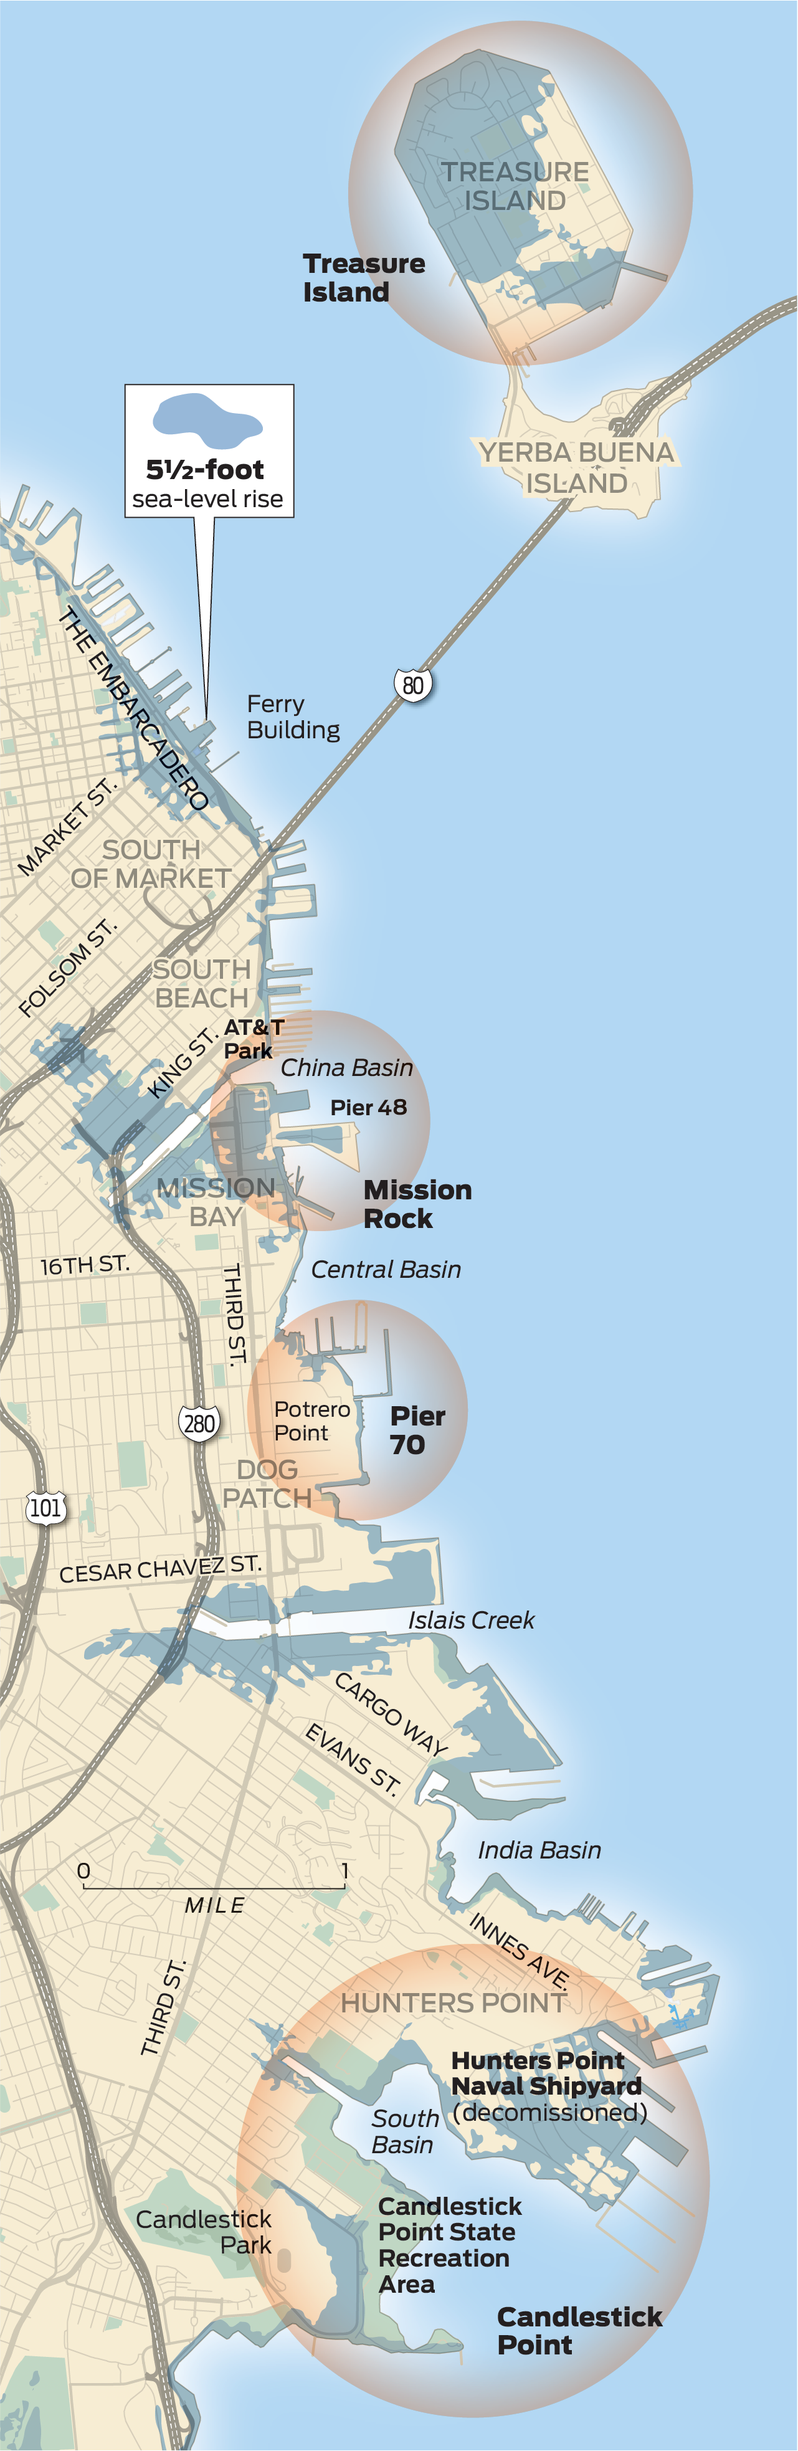
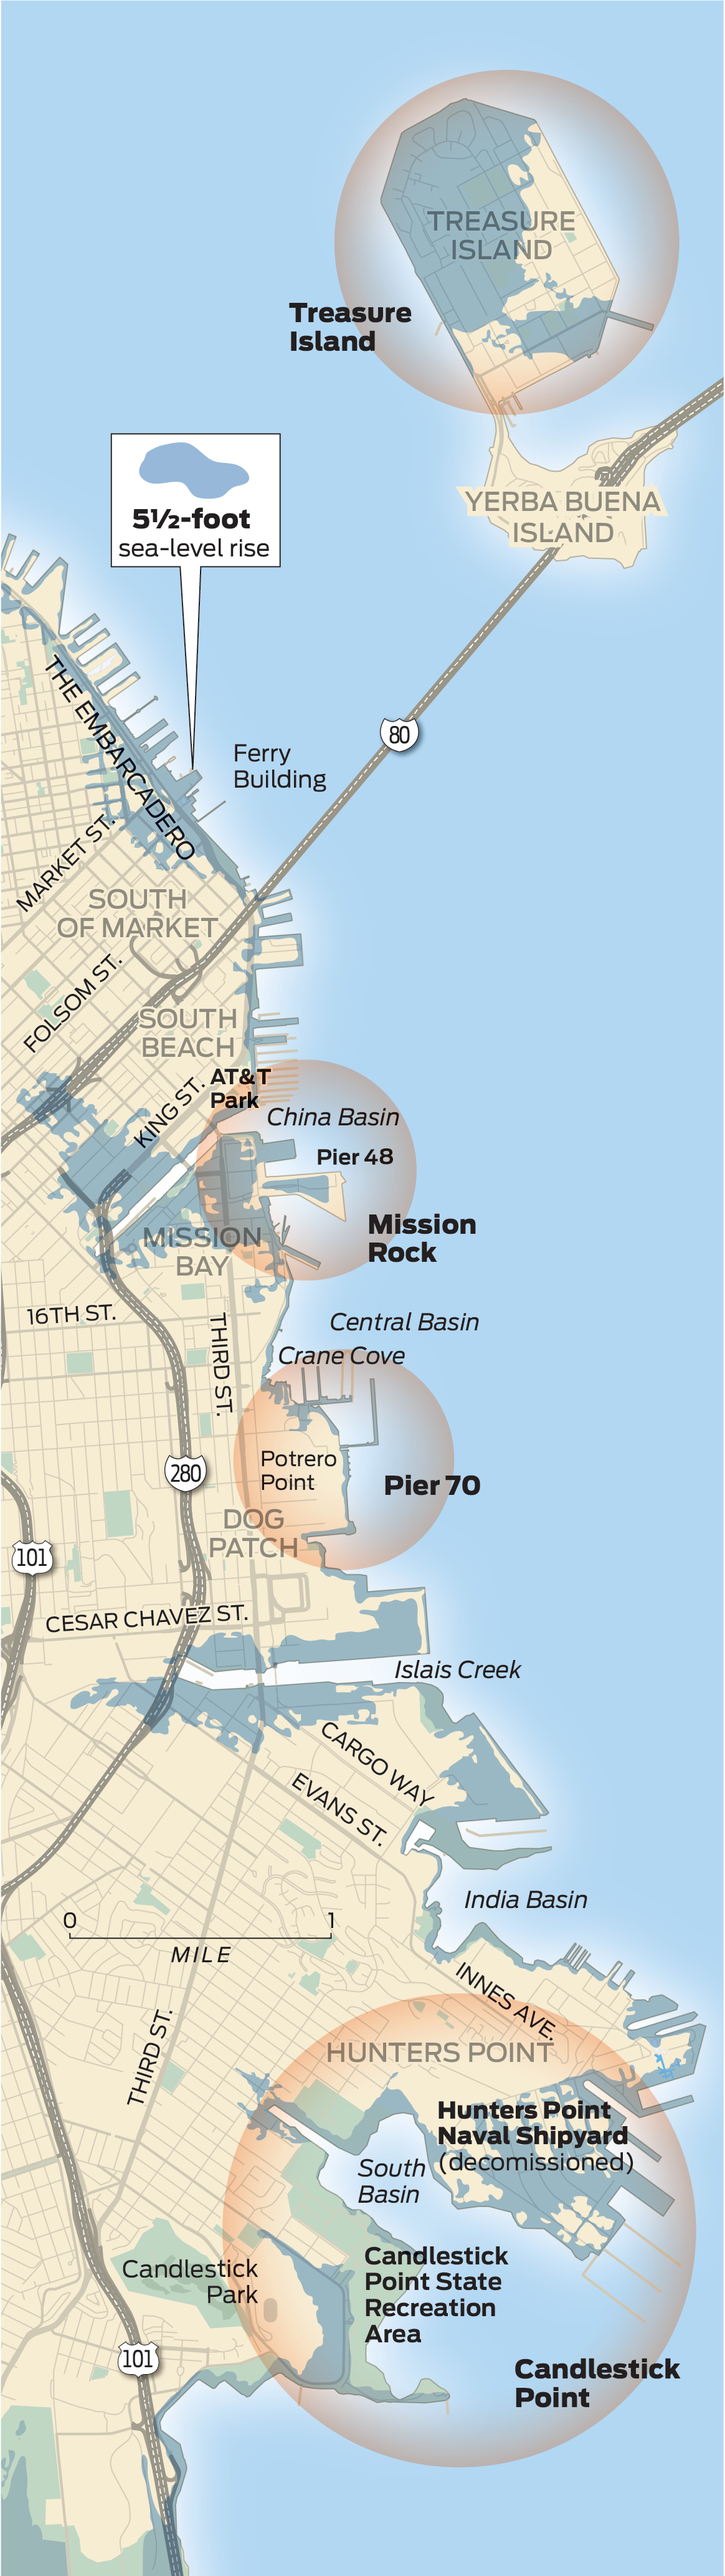
making the map mobile responsive

diff --git a/src/js/treasureisland.js b/src/js/treasureisland.js
@@ -11,7 +11,6 @@ var bodyvar = document.querySelector('body');
 
 if (screen.width > 320) {
   document.querySelector('#expandable-photo').addEventListener('click', function(){
-    console.log("clicked on expandable");
     bigphoto.classList.add("expanded");
     bodyvar.classList.add("expanded");
   });
@@ -30,34 +29,12 @@ if (screen.width > 320) {
   results = [];
 });
 
-if (screen.width > 480) {
-  var mapImage = document.getElementById("ti-image")
-  var mapHeight = 1535;//mapImage.getAttribute("height")+40;
-  console.log(mapHeight);
-//   // var mapHeight = 1200 + 40; //size of map + 40 pixels of padding
-  // var textHeight = 0;
-  var inc = mapHeight/4;
-  console.log(inc); //how often we should see new map element
-  // [0,1,2,3].forEach(function(d) {
-  //   var loc_str = "#development"+d;
-  //   textHeight = textHeight + document.getElementById(loc_str).getAttribute("height")+40; // each block has 40px padding
-  //   console.log(textHeight);
-  // });
-  // textHeight = textHeight-20; // every block has 40px of padding except the bottom
+var mapHeight = $("#ti-image").height();
+$(".flex-map").css("height",mapHeight+20+"px")
 
-  // var top_padding = Math.floor((mapHeight-textHeight)/7);
-// //  console.log(top_padding);
-//   if (top_padding < 0) {
-// //    console.log("ERROR ERROR ERROR");
-//     top_padding = 0;
-//   }
-//   embarcaderoData.forEach(function(pier,index) {
-//     if (index > 0) {
-//       var pier_str = ".pier"+index;
-//       $(pier_str).css('padding-top',top_padding);
-//     }
-//   });
-//
+if (screen.width > 480) {
+  var mapHeight = $("#ti-image").height();
+  var inc = mapHeight/4;
   $(window).scroll(function(){
       var pos = $(this).scrollTop();
       var shoreline_pos = $('#sticky-development-map-top').offset().top-200;
@@ -76,18 +53,11 @@ if (screen.width > 480) {
         if (idx < 4 && idx >= 0) {
           var mapID = document.getElementById("development"+idx);
           mapID.classList.add("active");
-          var inc_new = Math.round(inc_list[idx]);
+          var inc_new = Math.round(inc_list[idx]*mapHeight/1535);
           // var top_padding = (idx*inc+10)+"px";
           var top_padding = inc_new+"px";
           $("#development"+idx).css('padding-top',top_padding);
         }
-        // $(".pier-info").css('color','#B2B2B2');
-        // $('.st').css('fill','#F2F2F2');
-        // var idx = Math.round((pos-embarcadero_pos)/inc);
-        // var pier_active = ".pier"+idx;
-        // var pier_path_active = ".st"+idx;
-        // $(pier_active).css('color','black');
-        // $(pier_path_active).css('fill', 'red');
       }
   });
 }

diff --git a/src/part3/index.html b/src/part3/index.html
@@ -89,17 +89,20 @@
       <div class="hed">Developments planned along the bay</div>
       <div class="chatter">As development begins along areas facing serious sea level encroachment in the next years, careful plans account for how the developments will survive the increasing tides and threat of earthquakes.</div>
 
-      <div id="sticky-development-map-top"></div>
-      <div class="treasureisland-map">
-        <div class="ti-image" id="ti-image">
-          <img class="img" src="../assets/graphics/part3/waterfront2_bigtype_online.png">
+      <div class="flex-map">
+        <div id="sticky-development-map-top"></div>
+        <div class="treasureisland-map">
+          <div class="ti-image" id="ti-image">
+            <img class="img" src="../assets/graphics/part3/waterfront2_bigtype_online.png">
+          </div>
+        </div>
+        <div class="development-wrapper">
+          <div class="development-info development0" id="development0"></div>
+          <div class="development-info development1" id="development1"></div>
+          <div class="development-info development2" id="development2"></div>
+          <div class="development-info development3" id="development3"></div>
         </div>
       </div>
-
-      <div class="development-info development0" id="development0"></div>
-      <div class="development-info development1" id="development1"></div>
-      <div class="development-info development2" id="development2"></div>
-      <div class="development-info development3" id="development3"></div>
 
       <div class="interactive-credit">
         <div class="entry">Emma O'Neill  &bull; <a href="mailto:eoneill@sfchronicle.com">eoneill@sfchronicle.com</a>   &bull; <a href = "https://twitter.com/emmaruthoneill" target="_blank">@emmaruthoneill</a></div>

diff --git a/src/css/seed.less b/src/css/seed.less
@@ -1656,6 +1656,9 @@ body {
 .developments {
   font-family: @block-graphics;
   font-size: 14px;
+  @media @mobile {
+    font-size: 10px;
+  }
   .map-title {
     font-family: @med-graphics;
     font-size: 20px;
@@ -1673,29 +1676,27 @@ body {
   }
 }
 
-.treasureisland-map {
-  // margin-top: 20px;
+.flex-map {
+  .display-flex();
+  height: 1200px;
+  @media @tablet {
+    height: 600px;
+  }
+  width: 100%;
+  margin: 0 auto;
+}
+
+.treasureisland-map{
+  .flex(0,0,40%);
   img {
-    // width: 60%;
-    width: 500px;
+    max-width: 100%;
   }
-  svg {
-    height: 4000px;
-    @media @phone-horiz {
-      height: 1000px;
-    }
-    @media @mobile {
-      display: none;
-      height: 900px;
-      width: 100%;
-    }
-  }
-  float: left;
-  width: 60%;
-  text-align: center;
-  @media @mobile {
+}
+.development-wrapper {
+  margin: 0 auto;
+  .flex(0,0,55%);
+  img {
     width: 100%;
-    position: relative;
-    // position: fixed;
   }
+
 }
